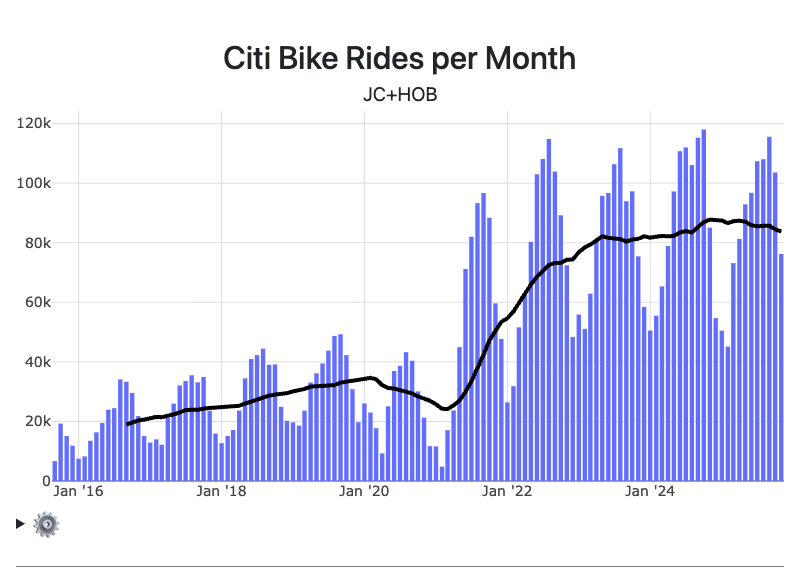
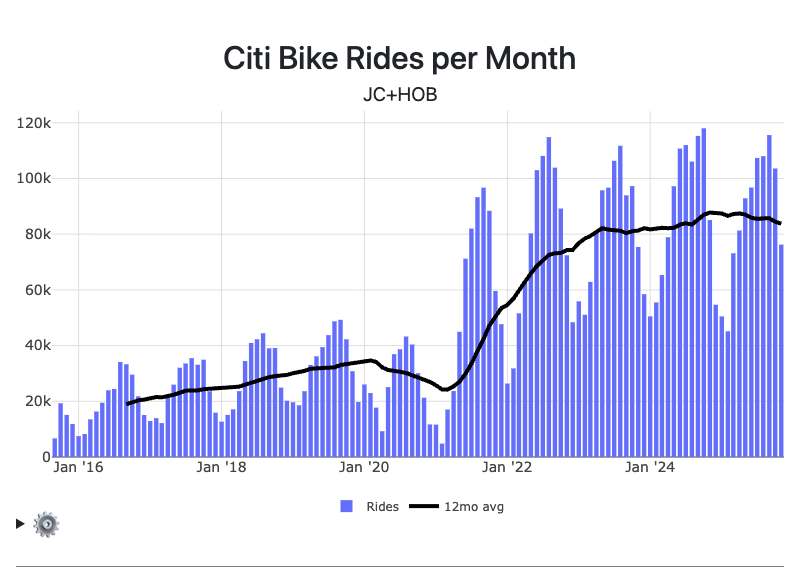
Show legend by default when rolling averages are visible
Fix regression where legend wasn't shown for default view with 12mo
rolling average. Now shows legend when stacking OR when rolling
averages are enabled.

🤖 Generated with [Claude Code](https://claude.com/claude-code)

diff --git a/www/src/pages/Home.tsx b/www/src/pages/Home.tsx
@@ -318,7 +318,8 @@ export default function Home() {
     )
   }
 
-  const showLegendValue = showLegend === null ? stackBy !== 'None' : showLegend
+  // Show legend by default when stacking OR when rolling averages are visible
+  const showLegendValue = showLegend === null ? (stackBy !== 'None' || rollingAvgs.length > 0) : showLegend
   const gridcolor = "#ddd"
 
   const layout = {
